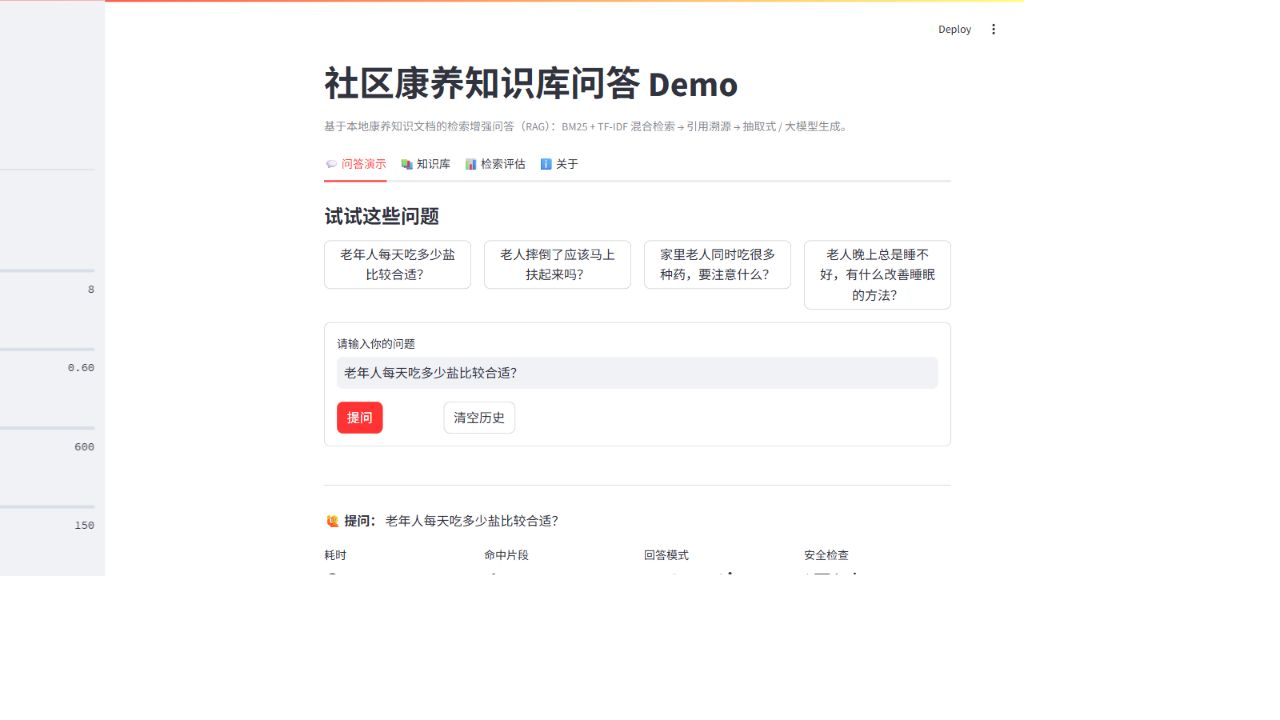
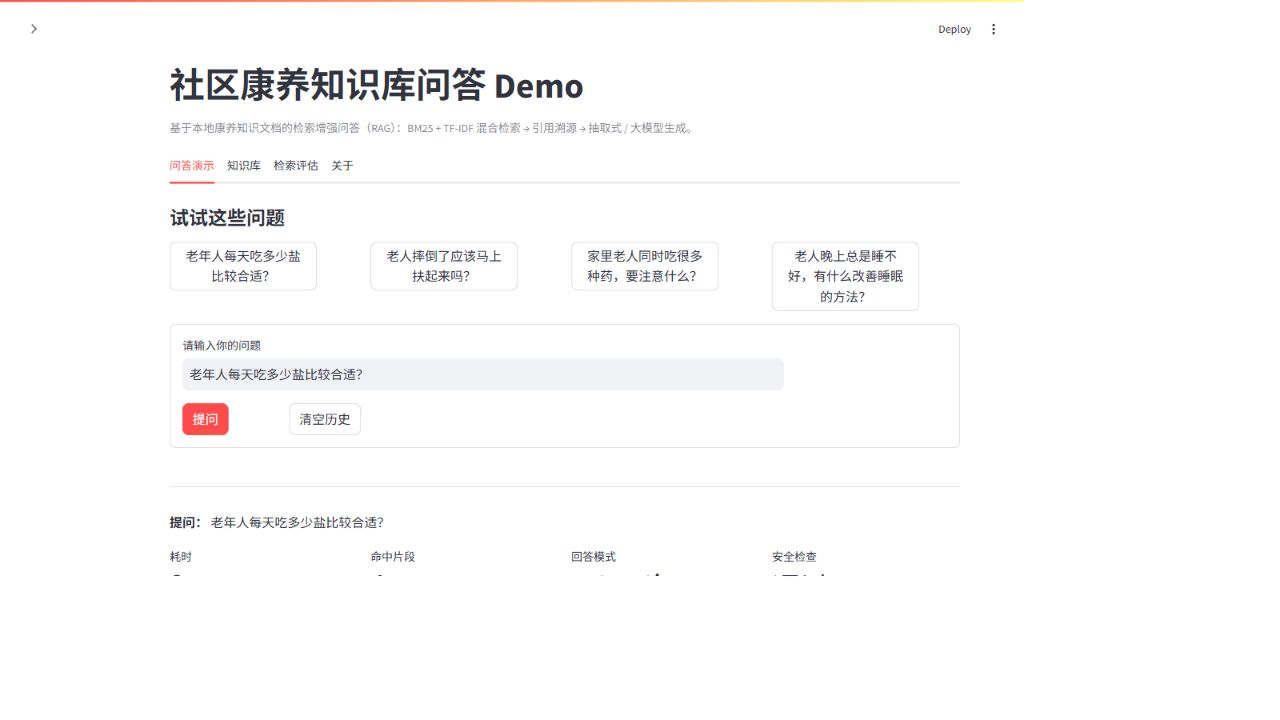
docs: 去掉文档与界面中的 emoji 图标，架构图改用 Mermaid 流程图

diff --git a/app.py b/app.py
@@ -20,7 +20,7 @@ from healthcare_rag.loader import load_documents  # noqa: E402
 from healthcare_rag.pipeline import HealthcareRAG  # noqa: E402
 from healthcare_rag.safety import DISCLAIMER  # noqa: E402
 
-st.set_page_config(page_title="社区康养知识库问答 Demo", page_icon="🏥", layout="wide")
+st.set_page_config(page_title="社区康养知识库问答 Demo", layout="wide")
 
 EXAMPLES = [
     "老年人每天吃多少盐比较合适？",
@@ -73,7 +73,7 @@ def render_citations(citations) -> None:
 base_settings = Settings.from_env()
 
 with st.sidebar:
-    st.title("🏥 康养问答")
+    st.title("康养问答")
     st.caption("社区康养知识库 RAG Demo")
     st.divider()
     st.subheader("参数设置")
@@ -113,7 +113,7 @@ st.caption(
     "基于本地康养知识文档的检索增强问答（RAG）：BM25 + TF-IDF 混合检索 → 引用溯源 → 抽取式 / 大模型生成。"
 )
 
-tab_qa, tab_kb, tab_eval, tab_about = st.tabs(["💬 问答演示", "📚 知识库", "📊 检索评估", "ℹ 关于"])
+tab_qa, tab_kb, tab_eval, tab_about = st.tabs(["问答演示", "知识库", "检索评估", "关于"])
 
 # --------------------------------------------------------------------- 问答页
 with tab_qa:
@@ -147,7 +147,7 @@ with tab_qa:
 
     for result in st.session_state.history:
         st.divider()
-        st.markdown(f"**🙋 提问：** {result.question}")
+        st.markdown(f"**提问：** {result.question}")
         col1, col2, col3, col4 = st.columns(4)
         col1.metric("耗时", f"{result.latency_ms:.0f} ms")
         col2.metric("命中片段", len(result.retrieved))
@@ -158,7 +158,7 @@ with tab_qa:
         if result.note:
             st.caption(f"备注：{result.note}")
         if result.retrieved:
-            with st.expander("🔍 检索明细（分数 / 关键词）"):
+            with st.expander("检索明细（分数 / 关键词）"):
                 st.dataframe(
                     [
                         {
@@ -181,7 +181,7 @@ with tab_kb:
     st.markdown("#### 知识库文档")
     st.caption(f"共 {len(get_documents(str(base_settings.knowledge_dir)))} 篇，全部放在 `data/knowledge/` 目录下，可直接新增 Markdown 文件扩充知识。")
     for doc in get_documents(str(base_settings.knowledge_dir)):
-        with st.expander(f"📄 {doc['title']}（{doc['sections']} 个小节 · {doc['source']}）"):
+        with st.expander(f"{doc['title']}（{doc['sections']} 个小节 · {doc['source']}）"):
             st.markdown(doc["content"])
 
 # ------------------------------------------------------------------- 评估页
@@ -192,7 +192,7 @@ with tab_eval:
         "指标：Hit@1、Hit@K、MRR、关键词覆盖率、拒答准确率。"
     )
     eval_k = st.slider("评估使用的 K", 1, 5, 3, key="eval_k")
-    if st.button("▶ 运行评估（使用当前侧边栏参数）", type="primary"):
+    if st.button("运行评估（使用当前侧边栏参数）", type="primary"):
         items = load_eval_set()
         progress_bar = st.progress(0.0, text="评估中…")
 
@@ -209,7 +209,7 @@ with tab_eval:
         st.metric("平均耗时", f"{report.avg_latency_ms:.0f} ms")
         st.dataframe(report.details, use_container_width=True, hide_index=True)
         st.download_button(
-            "⬇ 下载 Markdown 报告",
+            "下载 Markdown 报告",
             data=format_report_markdown(report, pipeline.settings).encode("utf-8"),
             file_name="eval_report.md",
             mime="text/markdown",

diff --git a/src/healthcare_rag/safety.py b/src/healthcare_rag/safety.py
@@ -25,7 +25,7 @@ EMERGENCY_KEYWORDS = [
 ]
 
 EMERGENCY_MESSAGE = (
-    "⚠ 你描述的情况可能是需要立即处理的急诊信号：**请马上拨打 120 或让家人陪同前往最近的急诊**，"
+    "【紧急提醒】你描述的情况可能是需要立即处理的急诊信号：**请马上拨打 120 或让家人陪同前往最近的急诊**，"
     "不要自行加药、停药或在家观察。以下内容仅为知识库中的一般性科普，不能用于急救判断。"
 )
 
@@ -56,7 +56,7 @@ def check_question(question: str) -> SafetyHint:
     if dose_like:
         return SafetyHint(
             level="caution",
-            message="💊 具体用药方案请以医生处方和药品说明书为准，下面是知识库中的一般性提醒。",
+            message="【用药提醒】具体用药方案请以医生处方和药品说明书为准，下面是知识库中的一般性提醒。",
         )
 
     return SafetyHint(level="", message="")

diff --git a/src/healthcare_rag/evaluation.py b/src/healthcare_rag/evaluation.py
@@ -161,7 +161,7 @@ def format_report_markdown(report: EvalReport, settings=None) -> str:
         lines += [""]
     lines += ["## 明细", "", "| # | 问题 | 类型 | 期望 | 实际 | 结果 |", "| --- | --- | --- | --- | --- | --- |"]
     for index, row in enumerate(report.details, start=1):
-        result = "✅" if row.get("是否通过", row.get("关键词命中", False)) else "❌"
+        result = "通过" if row.get("是否通过", row.get("关键词命中", False)) else "未通过"
         lines.append(
             f"| {index} | {row['问题']} | {row['类型']} | {row['期望']} | {row['实际']} | {result} |"
         )

diff --git a/README.md b/README.md
@@ -4,19 +4,17 @@
 > 本地知识文档 → 中文分块 → **BM25 + TF-IDF 混合检索** → 引用溯源 → 抽取式 / 大模型生成，
 > 附带离线评估与医疗安全护栏。**不依赖任何付费服务即可离线跑通**。
 
-[![CI](https://github.com/2310629382-blip/healthcare-rag-demo/actions/workflows/ci.yml/badge.svg)](https://github.com/2310629382-blip/healthcare-rag-demo/actions/workflows/ci.yml)
-![Python](https://img.shields.io/badge/python-3.10%2B-blue)
-![License](https://img.shields.io/badge/license-MIT-green)
+测试状态：GitHub Actions 已通过（Python 3.10 / 3.11 / 3.12），见 [Actions 运行记录](https://github.com/2310629382-blip/healthcare-rag-demo/actions/workflows/ci.yml)。
 
 ---
 
-## 🖼 界面预览
+## 界面预览
 
 ![社区康养知识库问答 Demo 界面](docs/images/demo.png)
 
 > 提问后会显示回答、检索耗时、引用来源（文档 · 小节 · 相似度）与检索明细分数。
 
-## ✨ 项目亮点
+## 项目亮点
 
 | 特性 | 说明 |
 | --- | --- |
@@ -29,7 +27,7 @@
 | 离线评估 | Hit@1 / Hit@K / MRR / 关键词覆盖率 / 拒答准确率，一条命令生成 Markdown 报告 |
 | 工程化 | 单元测试（pytest）+ GitHub Actions CI（Python 3.10/3.11/3.12）+ 类型标注 + 结构化日志友好的返回对象 |
 
-## 📊 当前评估结果
+## 当前评估结果
 
 评估集是自己构造的 19 条问题（16 条知识库内 + 3 条域外），见 `data/eval/questions.jsonl`：
 
@@ -42,42 +40,27 @@
 | 拒答准确率 | **1.000** | 域外问题被正确拒答的比例 |
 | 平均端到端耗时 | **3 ms** | 纯 CPU、本地检索 + 抽取式回答 |
 
-> ⚠ 这是**小规模自建评估集**上的结果，只代表当前知识库与当前参数配置；换成别的知识库后需要重新校准阈值。
+> 注意：这是**小规模自建评估集**上的结果，只代表当前知识库与当前参数配置；换成别的知识库后需要重新校准阈值。
 
-## 🏗 技术架构
+## 技术架构
 
+```mermaid
+flowchart TD
+    A["data/knowledge/*.md<br/>康养科普文档"] --> B["loader.py<br/>解析标题与小节"]
+    B --> C["chunker.py<br/>中文分块：切句、按长度打包、保留重叠"]
+    C --> D["retrieval.py<br/>BM25 + TF-IDF（词级 + 字级）混合检索"]
+    D --> E{"相似度 >= 阈值<br/>且查询词覆盖率 >= 阈值"}
+    E -- 否 --> F["safety.py<br/>明确拒答，建议咨询社区医生"]
+    E -- 是 --> G["generator.py<br/>抽取式（默认）或大模型（可选）"]
+    G --> H["app.py / ask.py<br/>带引用来源的回答"]
 ```
-                  ┌───────────────────────────────┐
-                  │ data/knowledge/*.md           │  康养科普文档（9 篇，可自行扩充）
-                  └───────────────┬───────────────┘
-                                  │ loader.py：解析标题 / 小节
-                                  ▼
-                  ┌───────────────────────────────┐
-                  │ chunker.py：中文分块           │  标点切句 → 目标长度打包 → 重叠 60 字
-                  └───────────────┬───────────────┘
-                                  ▼
-      ┌──────────────────────────────────────────────────────┐
-      │ retrieval.py：HybridRetriever                        │
-      │   BM25(Okapi，关键词)   ┐                             │
-      │   TF-IDF(jieba 词级)    ├─► 归一化 → 加权融合 → 0~1 分 │
-      │   TF-IDF(字符 2-3 gram) ┘                             │
-      └───────────────┬──────────────────────────────────────┘
-                      ▼
-      ┌───────────────────────────────┐   分数 < 阈值 或 覆盖率 < 阈值
-      │ safety.py：安全 + 拒答护栏     │ ─────────────────────────► 明确拒答
-      └───────────────┬───────────────┘
-                      ▼
-      ┌───────────────────────────────┐
-      │ generator.py                  │   抽取式（默认，离线可跑）
-      │                               │   大模型（可选，OpenAI 兼容接口）
-      └───────────────┬───────────────┘
-                      ▼
-      app.py（Streamlit 网页） / ask.py（命令行） → 带引用的回答
-```
+
+数据流：data/knowledge -> loader.py -> chunker.py -> retrieval.py（BM25 + TF-IDF）
+-> 安全与拒答护栏 -> generator.py -> app.py / ask.py
 
 详细设计见 [`docs/architecture.md`](docs/architecture.md) 与 [`docs/design-notes.md`](docs/design-notes.md)。
 
-## 🚀 快速开始
+## 快速开始
 
 ### 1. 环境要求
 
@@ -139,7 +122,7 @@ pip install -r requirements-dev.txt
 pytest -q
 ```
 
-## ⚙ 配置说明
+## 配置说明
 
 复制 `.env.example` 为 `.env` 后按需修改（`.env` 已在 `.gitignore` 中，不会泄露密钥）：
 
@@ -169,7 +152,7 @@ LLM_API_KEY=ollama
 LLM_MODEL=qwen2.5:7b
 ```
 
-## 📁 目录结构
+## 目录结构
 
 ```
 healthcare-rag-demo/
@@ -194,7 +177,7 @@ healthcare-rag-demo/
 └── reports/                    # 评估报告输出目录
 ```
 
-## 🧠 设计要点
+## 设计要点
 
 1. **为什么用混合检索而不是直接上向量库？**
    小规模知识库上，BM25 对「高血压」「跌倒」这类关键词命中精准且完全可解释；中文没有天然空格，
@@ -213,7 +196,7 @@ healthcare-rag-demo/
 5. **评估为什么要带域外问题？**
    只测「能不能回答」是不够的，还要测「该不该回答」。评估集里刻意放了 3 条与康养无关的问题。
 
-## 🔍 已知局限
+## 已知局限
 
 - 知识库只有 9 篇科普文档，覆盖的疾病与场景有限；
 - 纯关键词检索对**口语化表达**（例如把「食盐摄入」说成「吃盐」）召回不足，
@@ -221,7 +204,7 @@ healthcare-rag-demo/
 - 拒答阈值是在当前评估集上校准的，换知识库后需要重新调参；
 - 知识库内容来自公开健康科普资料的整理，**仅用于技术演示**，不是医学建议。
 
-## 🗺 后续计划
+## 后续计划
 
 - [ ] 加入向量检索（`sentence-transformers` / BGE-small-zh）并与 BM25 做混合与对比实验
 - [ ] 加入 Rerank（Cross-Encoder 或 bge-reranker）提升 Top-1
@@ -232,11 +215,11 @@ healthcare-rag-demo/
 
 详见 [`docs/roadmap.md`](docs/roadmap.md)。
 
-## ⚠ 免责声明
+## 免责声明
 
 本项目仅用于技术学习与知识科普演示，知识库内容整理自公开健康科普资料，**不能替代医生面诊、诊断和处方**。
 如有身体不适请及时就医；出现胸痛、意识不清、一侧肢体无力、大出血等急症信号，请立即拨打 120。
 
-## 📄 License
+## License
 
 [MIT](LICENSE)

diff --git a/reports/eval_report.md b/reports/eval_report.md
@@ -6,7 +6,7 @@
 - MRR：0.896
 - 关键词覆盖率：0.625
 - 拒答准确率：1.000
-- 平均端到端耗时：3 ms
+- 平均端到端耗时：4 ms
 
 ## 配置
 
@@ -23,22 +23,22 @@
 
 | # | 问题 | 类型 | 期望 | 实际 | 结果 |
 | --- | --- | --- | --- | --- | --- |
-| 1 | 老年人每天吃多少盐比较合适？ | 知识库内 | 高血压日常管理 | 老年膳食营养与肌少症预防 | ✅ |
-| 2 | 家里老人有高血压，在家怎么测血压才准确？ | 知识库内 | 高血压日常管理 | 高血压日常管理 | ✅ |
-| 3 | 血压正常了能不能自己把降压药停掉？ | 知识库内 | 高血压日常管理 | 高血压日常管理 | ✅ |
-| 4 | 糖尿病病人吃饭的顺序有讲究吗？ | 知识库内 | 2型糖尿病饮食与运动 | 2型糖尿病饮食与运动 | ✅ |
-| 5 | 老人运动时突然心慌出汗手抖，是不是低血糖？ | 知识库内 | 2型糖尿病饮食与运动 | 2型糖尿病饮食与运动 | ✅ |
-| 6 | 糖尿病患者可以吃水果吗，吃多少？ | 知识库内 | 2型糖尿病饮食与运动 | 2型糖尿病饮食与运动 | ❌ |
-| 7 | 卫生间怎么改造能减少老人摔倒？ | 知识库内 | 老年人跌倒预防与居家改造 | 老年人跌倒预防与居家改造 | ❌ |
-| 8 | 老人摔倒了应该马上扶起来吗？ | 知识库内 | 老年人跌倒预防与居家改造 | 社区康养服务与就医指引 | ❌ |
-| 9 | 老年人为什么容易肌肉减少，怎么预防肌少症？ | 知识库内 | 老年膳食营养与肌少症预防 | 老年膳食营养与肌少症预防 | ✅ |
-| 10 | 老人晚上总是睡不好，有什么改善睡眠的方法？ | 知识库内 | 睡眠与心理健康 | 睡眠与心理健康 | ✅ |
-| 11 | 长期吃安眠药对老人有什么风险？ | 知识库内 | 睡眠与心理健康 | 睡眠与心理健康 | ❌ |
-| 12 | 家里老人同时吃很多种药，要注意什么？ | 知识库内 | 用药安全与多重用药 | 用药安全与多重用药 | ❌ |
-| 13 | 冬天老年人养生要注意哪些方面？ | 知识库内 | 中医养生与四季调护 | 中医养生与四季调护 | ❌ |
-| 14 | 脑卒中以后在家里怎么做康复训练？ | 知识库内 | 康复训练与关节保护 | 康复训练与关节保护 | ✅ |
-| 15 | 膝关节不好的人平时应该少做哪些动作？ | 知识库内 | 康复训练与关节保护 | 康复训练与关节保护 | ✅ |
-| 16 | 社区卫生服务中心能为老年人提供哪些服务？ | 知识库内 | 社区康养服务与就医指引 | 社区康养服务与就医指引 | ✅ |
-| 17 | 去哪个平台能买到便宜的美国股票？ | 域外问题 | 拒答 | 拒答 | ✅ |
-| 18 | 帮我写一份 Java 后端的求职简历模板 | 域外问题 | 拒答 | 拒答 | ✅ |
-| 19 | 最近有什么好看的科幻电影推荐吗？ | 域外问题 | 拒答 | 拒答 | ✅ |
+| 1 | 老年人每天吃多少盐比较合适？ | 知识库内 | 高血压日常管理 | 老年膳食营养与肌少症预防 | 通过 |
+| 2 | 家里老人有高血压，在家怎么测血压才准确？ | 知识库内 | 高血压日常管理 | 高血压日常管理 | 通过 |
+| 3 | 血压正常了能不能自己把降压药停掉？ | 知识库内 | 高血压日常管理 | 高血压日常管理 | 通过 |
+| 4 | 糖尿病病人吃饭的顺序有讲究吗？ | 知识库内 | 2型糖尿病饮食与运动 | 2型糖尿病饮食与运动 | 通过 |
+| 5 | 老人运动时突然心慌出汗手抖，是不是低血糖？ | 知识库内 | 2型糖尿病饮食与运动 | 2型糖尿病饮食与运动 | 通过 |
+| 6 | 糖尿病患者可以吃水果吗，吃多少？ | 知识库内 | 2型糖尿病饮食与运动 | 2型糖尿病饮食与运动 | 未通过 |
+| 7 | 卫生间怎么改造能减少老人摔倒？ | 知识库内 | 老年人跌倒预防与居家改造 | 老年人跌倒预防与居家改造 | 未通过 |
+| 8 | 老人摔倒了应该马上扶起来吗？ | 知识库内 | 老年人跌倒预防与居家改造 | 社区康养服务与就医指引 | 未通过 |
+| 9 | 老年人为什么容易肌肉减少，怎么预防肌少症？ | 知识库内 | 老年膳食营养与肌少症预防 | 老年膳食营养与肌少症预防 | 通过 |
+| 10 | 老人晚上总是睡不好，有什么改善睡眠的方法？ | 知识库内 | 睡眠与心理健康 | 睡眠与心理健康 | 通过 |
+| 11 | 长期吃安眠药对老人有什么风险？ | 知识库内 | 睡眠与心理健康 | 睡眠与心理健康 | 未通过 |
+| 12 | 家里老人同时吃很多种药，要注意什么？ | 知识库内 | 用药安全与多重用药 | 用药安全与多重用药 | 未通过 |
+| 13 | 冬天老年人养生要注意哪些方面？ | 知识库内 | 中医养生与四季调护 | 中医养生与四季调护 | 未通过 |
+| 14 | 脑卒中以后在家里怎么做康复训练？ | 知识库内 | 康复训练与关节保护 | 康复训练与关节保护 | 通过 |
+| 15 | 膝关节不好的人平时应该少做哪些动作？ | 知识库内 | 康复训练与关节保护 | 康复训练与关节保护 | 通过 |
+| 16 | 社区卫生服务中心能为老年人提供哪些服务？ | 知识库内 | 社区康养服务与就医指引 | 社区康养服务与就医指引 | 通过 |
+| 17 | 去哪个平台能买到便宜的美国股票？ | 域外问题 | 拒答 | 拒答 | 通过 |
+| 18 | 帮我写一份 Java 后端的求职简历模板 | 域外问题 | 拒答 | 拒答 | 通过 |
+| 19 | 最近有什么好看的科幻电影推荐吗？ | 域外问题 | 拒答 | 拒答 | 通过 |

diff --git a/docs/architecture.md b/docs/architecture.md
@@ -2,22 +2,30 @@
 
 ## 1. 整体数据流
 
+```mermaid
+flowchart TD
+    Q["用户问题"] --> S["safety.check_question()<br/>急症 / 用药规则检查"]
+    Q --> R["HybridRetriever.search()"]
+    R --> T["tokenize()：jieba 分词 + 停用词"]
+    T --> B1["BM25（Okapi）关键词稀疏检索"]
+    T --> B2["TF-IDF 词级 + 字级 2-3 gram"]
+    B1 --> F["归一化加权融合：0~1 分 + 查询词覆盖率"]
+    B2 --> F
+    F --> D{"分数 < MIN_SCORE<br/>或覆盖率 < MIN_COVERAGE"}
+    D -- 是 --> X["明确拒答"]
+    D -- 否 --> G["ExtractiveGenerator / LLMGenerator<br/>生成带编号引用的回答"]
+    G --> O["RAGResult：回答 + 引用 + 检索明细 + 耗时"]
+```
+
+上图的文字版流程：
+
 ```
 用户问题
-   │
-   ├─► safety.check_question()          规则安全检查（急症 / 用药）
-   │
-   ├─► HybridRetriever.search()         混合检索
-   │      ├─ tokenize()                 jieba 分词 + 停用词
-   │      ├─ BM25.score()               Okapi BM25，关键词稀疏检索
-   │      ├─ TF-IDF(词级) + TF-IDF(字级 2-3 gram)
-   │      └─ 归一化加权融合 → 0~1 分 + 查询词覆盖率
-   │
-   ├─► 拒答判断                          分数 < MIN_SCORE 或 覆盖率 < MIN_COVERAGE
-   │
-   ├─► ExtractiveGenerator / LLMGenerator   生成回答（带 [编号] 引用）
-   │
-   └─► RAGResult                       回答 + 引用 + 检索明细 + 耗时 + 安全检查结果
+  -> safety.check_question()      规则安全检查（急症 / 用药）
+  -> HybridRetriever.search()     混合检索（BM25 + TF-IDF + 覆盖率）
+  -> 拒答判断（阈值 / 覆盖率）      不通过则明确拒答
+  -> 生成回答（抽取式 / 大模型）    带 [编号] 引用
+  -> RAGResult                    回答 + 引用 + 检索明细 + 耗时
 ```
 
 ## 2. 模块职责
